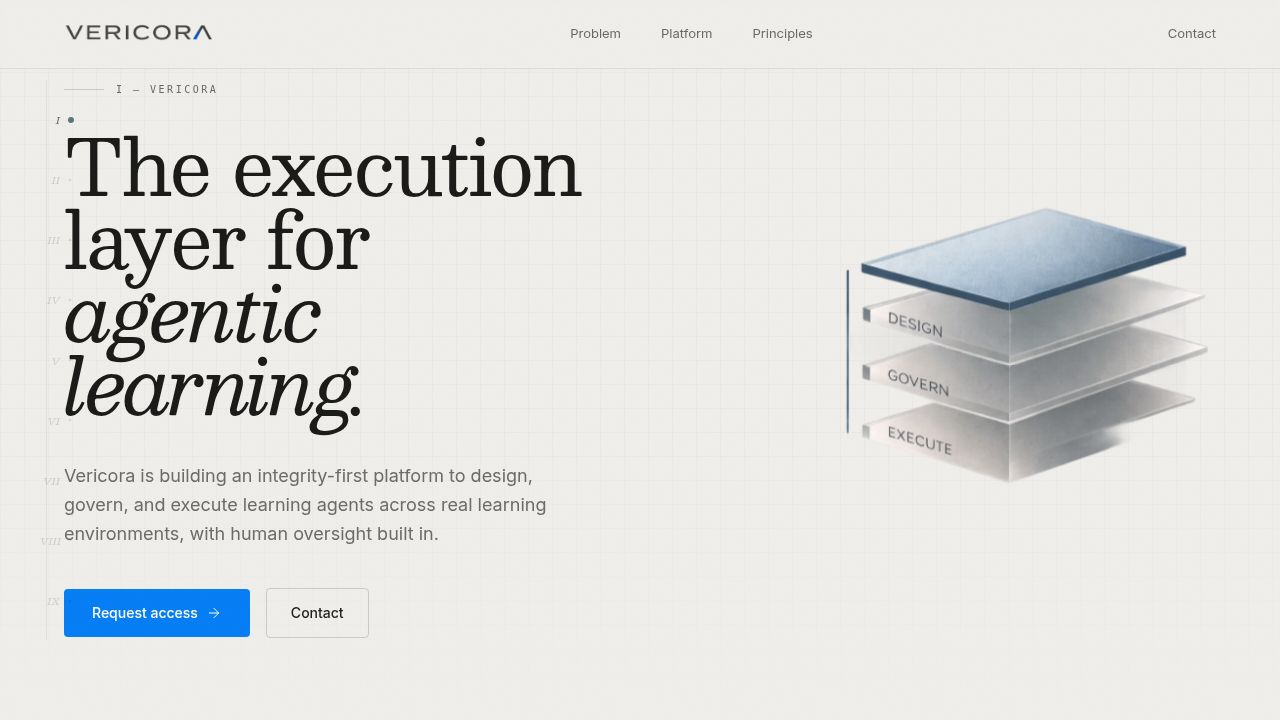
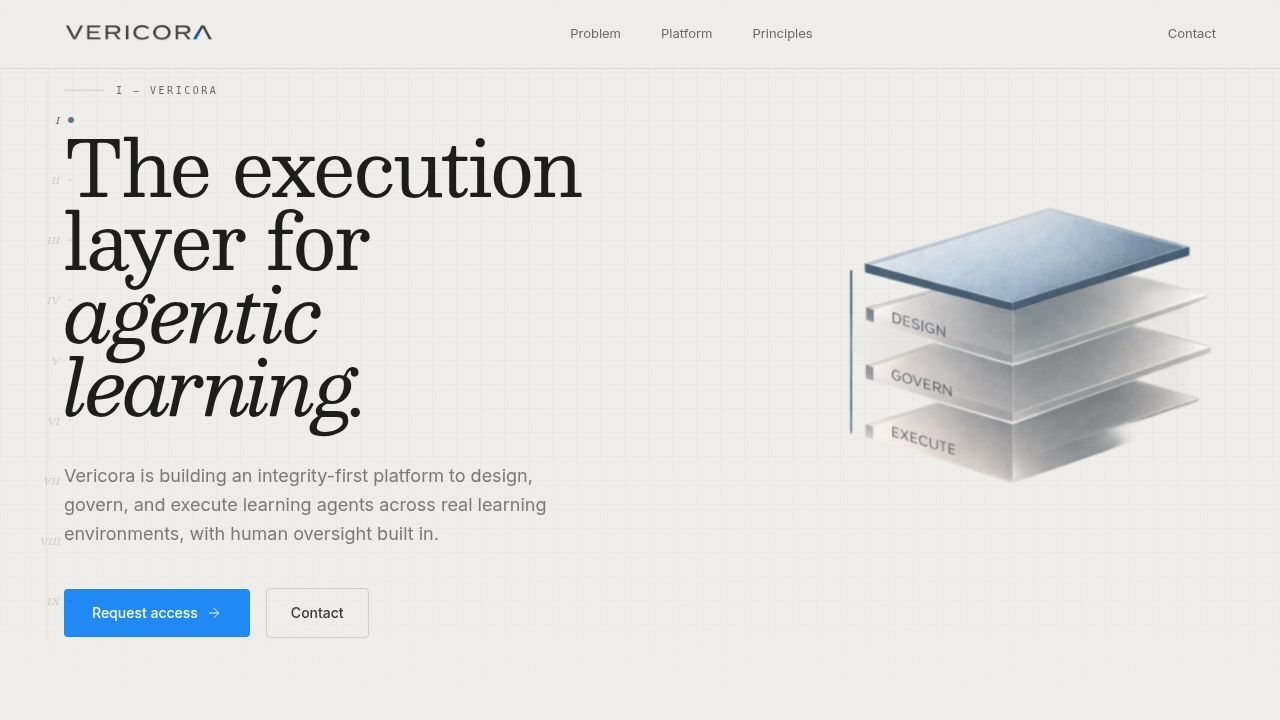
Update founder story section with new images and signature
Replace placeholder images in the founder's story section with the correct founder portrait and handwritten signature.

Replit-Commit-Author: Agent
Replit-Commit-Session-Id: c03ffb42-468e-4dbb-b412-eeeee36b69bb
Replit-Commit-Checkpoint-Type: full_checkpoint
Replit-Commit-Event-Id: 06bb95f0-fe97-4735-82d5-ce6237da944f
Replit-Commit-Screenshot-Url: https://storage.googleapis.com/screenshot-production-us-central1/531f08ef-b1e5-4ea9-80ad-4c07f1a960fe/c03ffb42-468e-4dbb-b412-eeeee36b69bb/SYhrQOt
Replit-Helium-Checkpoint-Created: true

diff --git a/client/src/pages/home.tsx b/client/src/pages/home.tsx
@@ -857,7 +857,7 @@ export default function Home() {
           <div className="grid lg:grid-cols-12 gap-12 lg:gap-16 mb-20">
             <ScrollReveal className="lg:col-span-5">
               <img
-                src="/assets/founder.jpg"
+                src="/assets/founder.png"
                 alt="Ramesh Balan, Founder of Vericora"
                 className="w-full object-cover rounded-lg"
               />
@@ -886,8 +886,12 @@ export default function Home() {
           </ScrollReveal>
 
           <ScrollReveal delay={0.1}>
-            <p className="text-sm text-muted-foreground mb-2">Warmly,</p>
-            <p className="text-2xl font-serif italic mb-1" style={{ fontFamily: "'Source Serif 4', serif" }}>Ramesh Balan</p>
+            <p className="text-sm text-muted-foreground mb-4">Warmly,</p>
+            <img
+              src="/assets/founder-signature.png"
+              alt="Ramesh Balan signature"
+              className="h-10 w-auto mb-2"
+            />
             <p className="text-xs text-muted-foreground tracking-wide">Founder, Vericora</p>
           </ScrollReveal>
         </div>
